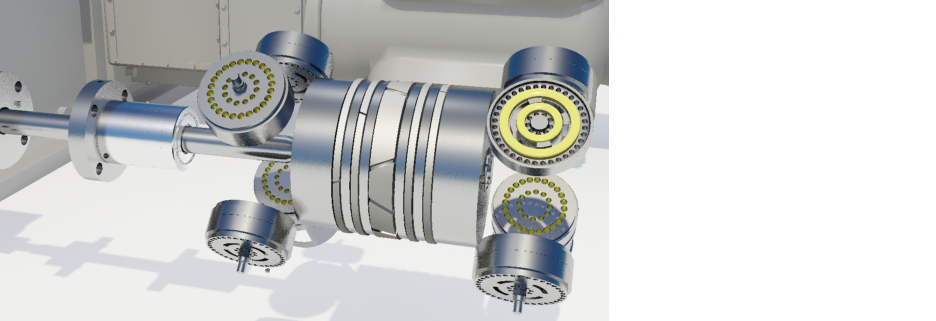
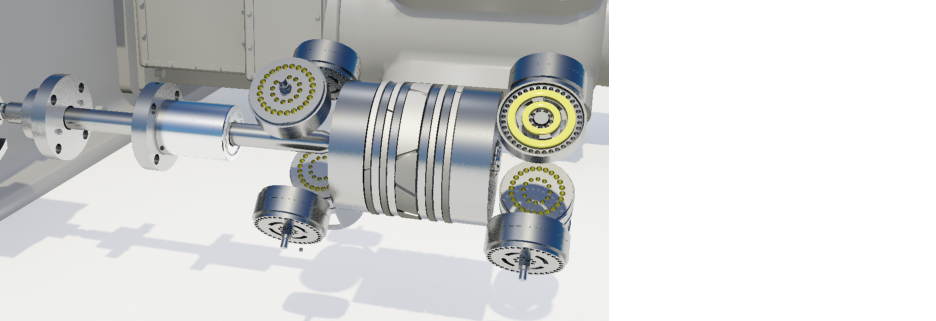
new sealing nav images

diff --git a/templates/sealing.html b/templates/sealing.html
@@ -31,6 +31,9 @@
       <li class="sealing">
         <a href="#">{% placeholder 3D_icon7 %}</a>
       </li>
+      <li class="sealing">
+        <a href="#">{% placeholder 3D_icon8 %}</a>
+      </li>
     </ul>
     <div class="flexslider">
       <ul class="slides">
@@ -102,6 +105,16 @@
 	    {% placeholder 3D_description7 %}
 	    </span>
 	    <span class="learn-more">{% placeholder 3D_link7 %}</span>
+	</li>
+        <li>
+          <img src="{{STATIC_URL}}img/sealing/slide8.jpg" alt=""/>
+        
+	    <div class="slide-text">
+	    {% placeholder 3D_title8 %}
+	    <span class="caption">
+	    {% placeholder 3D_description8 %}
+	    </span>
+	    <span class="learn-more">{% placeholder 3D_link8 %}</span>
 	</li>
       </ul>
     </div>
